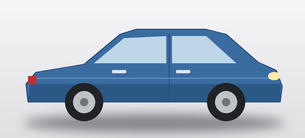
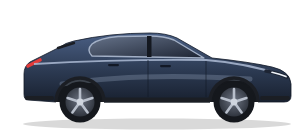
Example_20: a navy hatchback of our own drawing in place of the blue car (the owner), from util/car.svg by util/make-car-png.mjs
Claude-Session: https://claude.ai/code/session_011C9b3wvPJjaf2UXvr6BXh6

diff --git a/Sources/Example_20/main.swift b/Sources/Example_20/main.swift
@@ -120,7 +120,7 @@ public class Example_20 {
         TextLine(f1, "One car of the data").setStructureType(StructElem.H2)
                 .setFontSize(14.0).setLocation(50.0, y).drawOn(page)
         let image = try Image(pdf, "resources/images/car.png")
-        image.setAltDescription("A drawing of a blue car, seen from the side.")
+        image.setAltDescription("A drawing of a navy hatchback, seen from the side.")
         image.scaleBy(1.0 / 3.0)    // The image is 120 DPI, so 0.6 of its pixels
         let vin = try Barcode(Barcode.CODE_128, modelX![0])
         vin.setModuleLength(0.75)

diff --git a/examples/Example_20.java b/examples/Example_20.java
@@ -129,7 +129,7 @@ public class Example_20 {
         new TextLine(f1, "One car of the data").setStructureType(StructElem.H2)
                 .setFontSize(14f).setLocation(50f, y).drawOn(page);
         Image image = new Image(pdf, "resources/images/car.png");
-        image.setAltDescription("A drawing of a blue car, seen from the side.");
+        image.setAltDescription("A drawing of a navy hatchback, seen from the side.");
         image.scaleBy(1f / 3f);     // The image is 120 DPI, so 0.6 of its pixels
         Barcode vin = new Barcode(Barcode.CODE_128, modelX[0]);
         vin.setModuleLength(0.75f);

diff --git a/examples/Example_20/Example_20.cs b/examples/Example_20/Example_20.cs
@@ -128,7 +128,7 @@ public class Example_20 {
         new TextLine(f1, "One car of the data").SetStructureType(StructElem.H2)
                 .SetFontSize(14f).SetLocation(50f, y).DrawOn(page);
         Image image = new Image(pdf, "resources/images/car.png");
-        image.SetAltDescription("A drawing of a blue car, seen from the side.");
+        image.SetAltDescription("A drawing of a navy hatchback, seen from the side.");
         image.ScaleBy(1f / 3f);     // The image is 120 DPI, so 0.6 of its pixels
         Barcode vin = new Barcode(Barcode.CODE_128, modelX[0]);
         vin.SetModuleLength(0.75f);

diff --git a/src/examples/example20/main.go b/src/examples/example20/main.go
@@ -145,7 +145,7 @@ func Example20() {
 	heading.SetLocation(50.0, y)
 	heading.DrawOn(page)
 	image := pdfjet.NewImageFromFile(pdf, "resources/images/car.png")
-	image.SetAltDescription("A drawing of a blue car, seen from the side.")
+	image.SetAltDescription("A drawing of a navy hatchback, seen from the side.")
 	image.ScaleBy(1.0 / 3.0) // The image is 120 DPI, so 0.6 of its pixels
 	vin := pdfjet.NewBarcode(pdfjet.CODE_128, modelX[0])
 	vin.SetModuleLength(0.75)

diff --git a/CHANGELOG.md b/CHANGELOG.md
@@ -427,7 +427,8 @@ Behavior changes since 9.1.5, from the reviews before this release:
   `MIT AND OFL-1.1`; the CI checks fail when nothing was checked;
   `check-api.sh` and `test-go.sh` cover the font packages; actions are pinned
   by commit. Two photos of cars in `resources/images` were replaced with
-  images of our own drawing, `car.png` and `dusk.png`, and 69 files nothing
+  images of our own drawing, `car.png` (a navy hatchback, drawn from
+  `util/car.svg` by `util/make-car-png.mjs`) and `dusk.png`, and 69 files nothing
   used left `resources/images`.
 - Behavior change: a Table sum reads each cell once, and a number has to be
   the whole cell. Example: 1,234,567.89 wrapped in a narrow column counts
